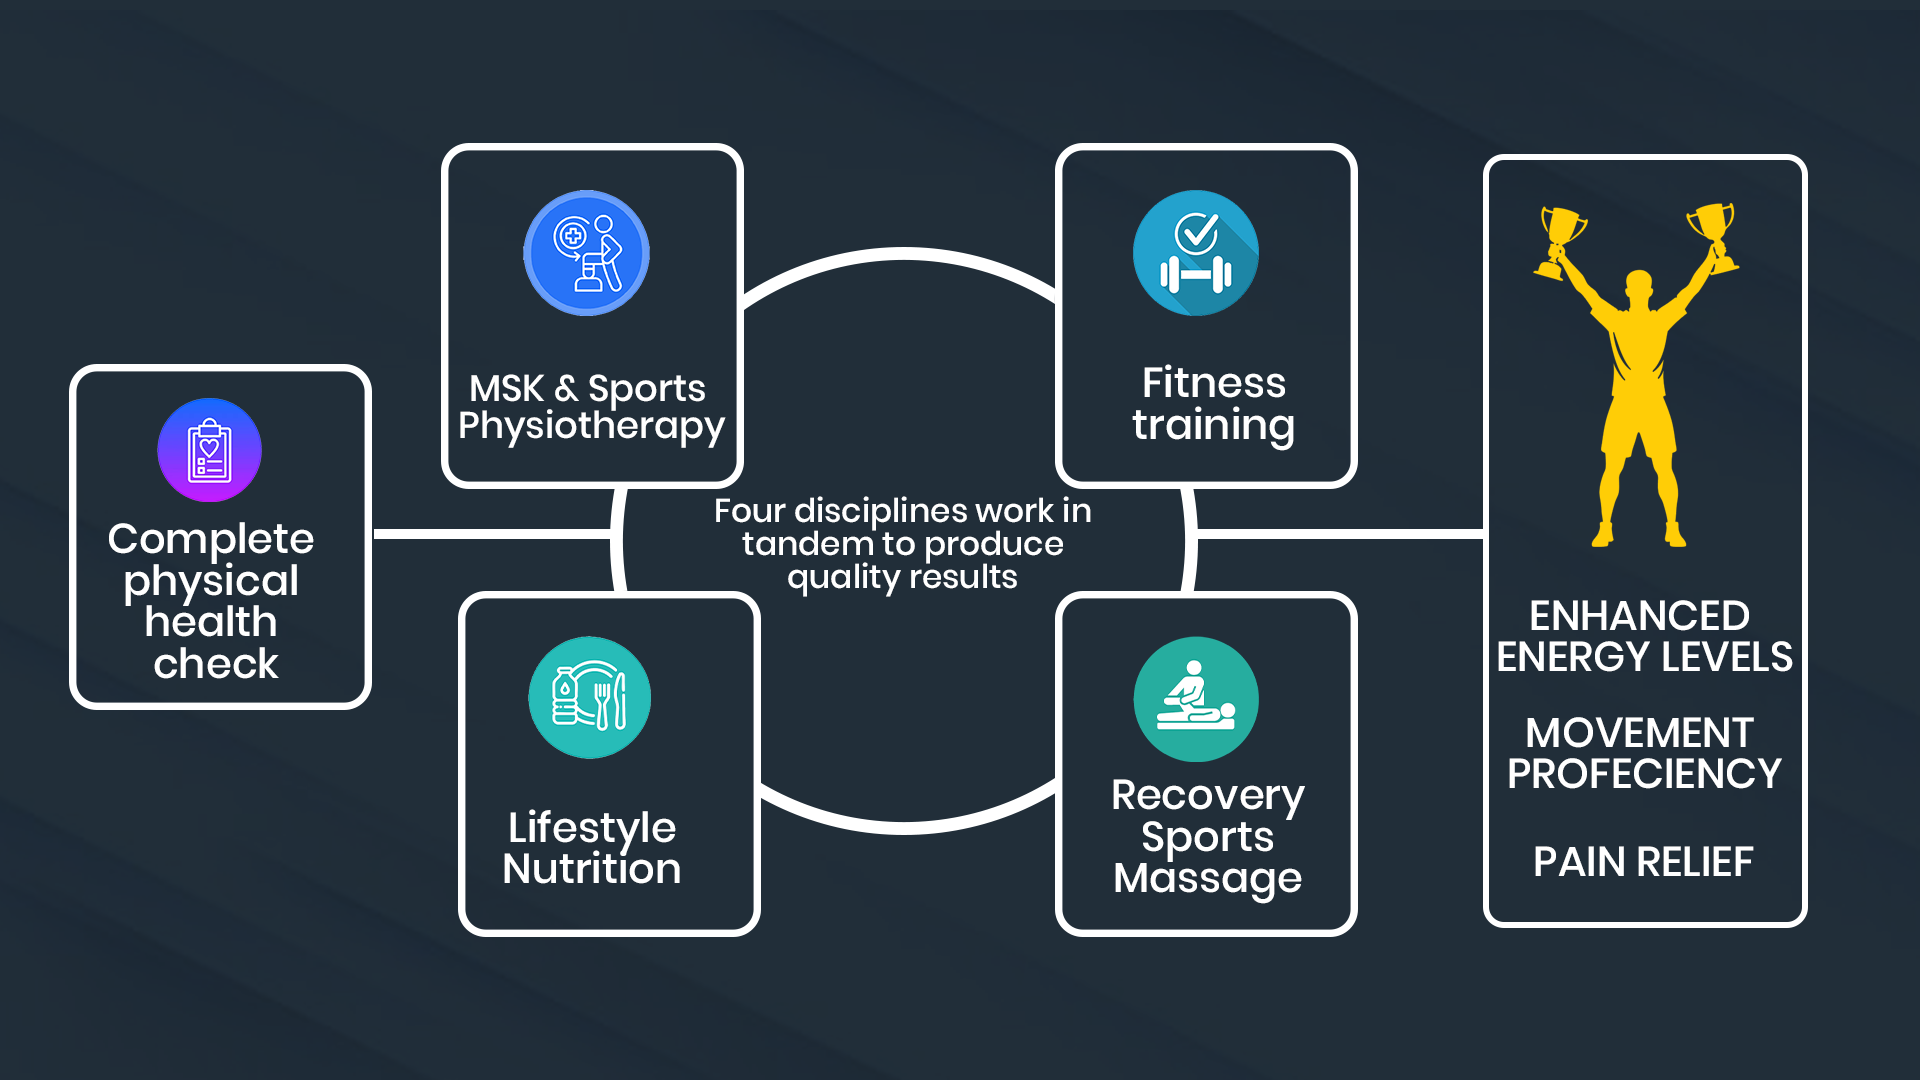
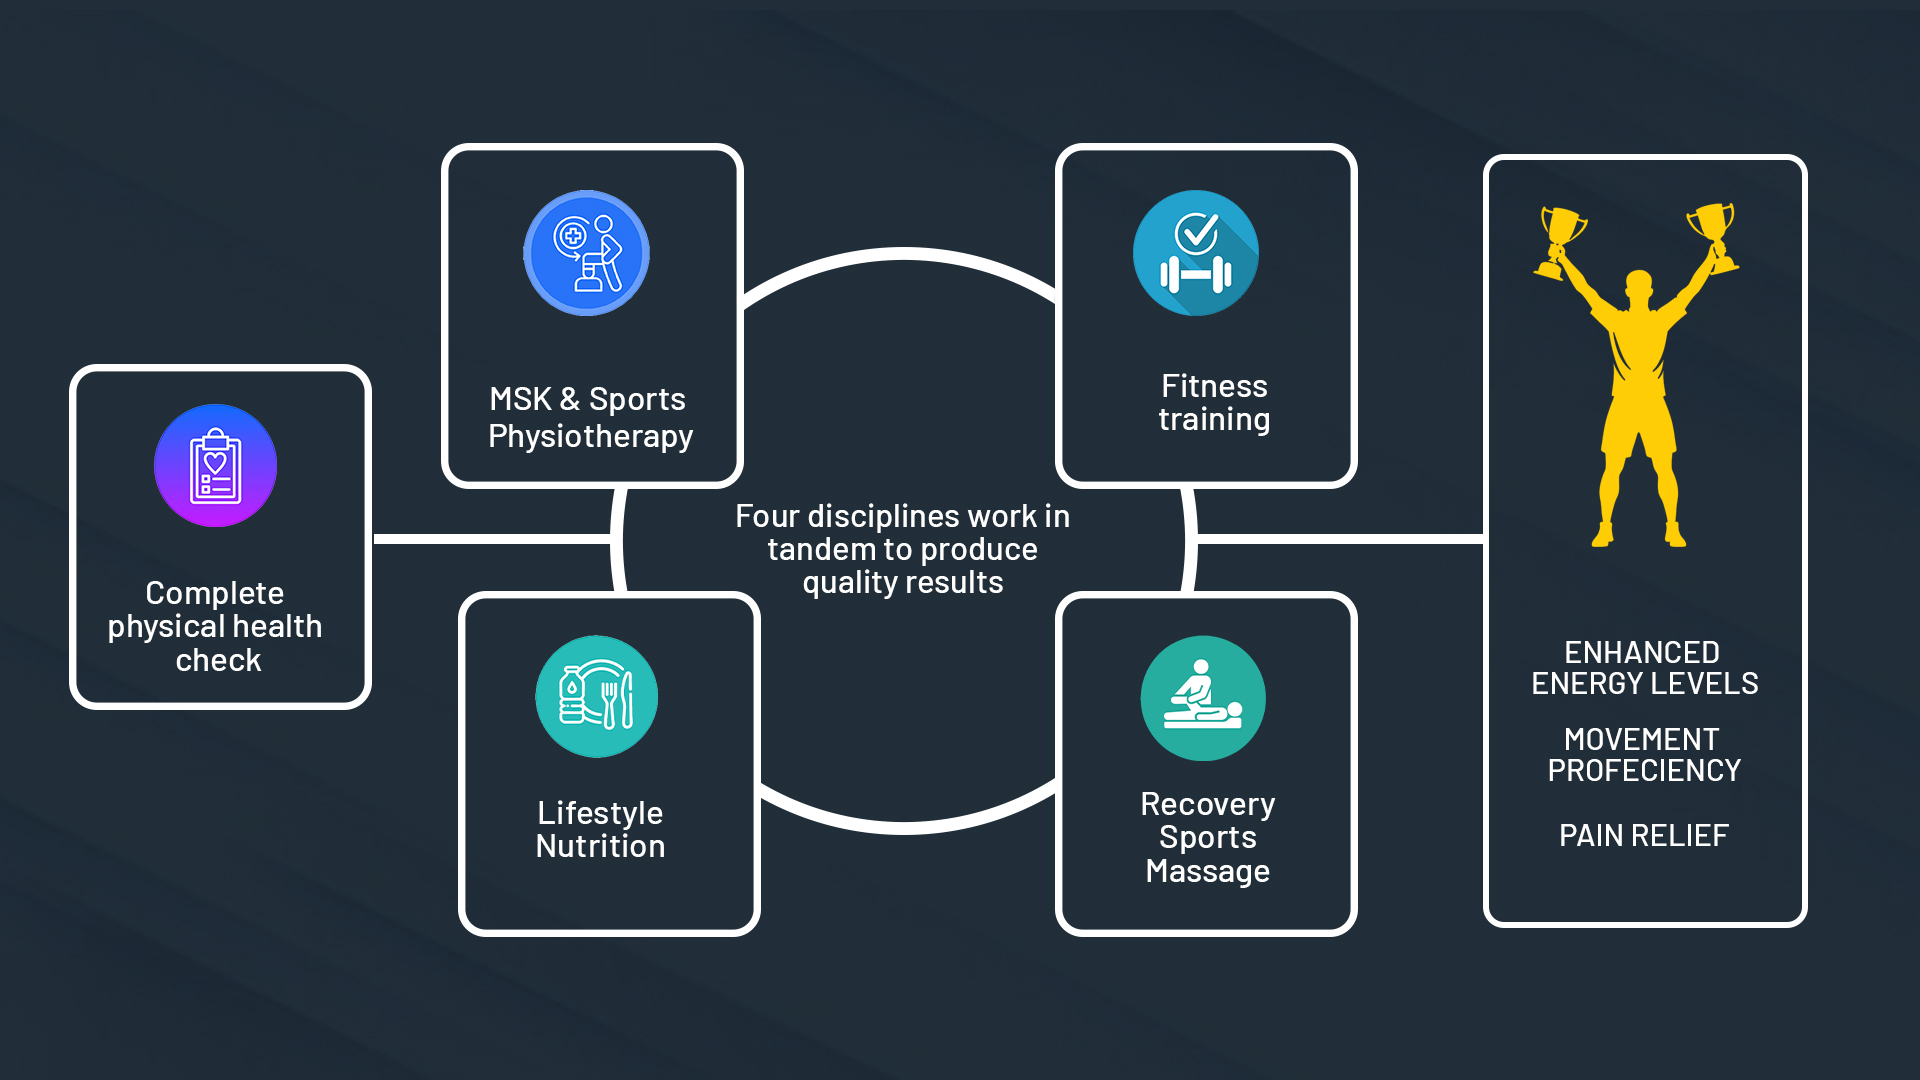
first

diff --git a/corporate-wellness.html b/corporate-wellness.html
@@ -130,6 +130,28 @@
       animation-play-state: paused;
     }
 
+    #clients .clients-track>span {
+      min-width: 150px !important;
+      padding-top: 0.6rem !important;
+      padding-bottom: 0.6rem !important;
+      border-right-width: 0 !important;
+    }
+
+    #clients .clients-track img {
+      height: 2.6rem !important;
+    }
+
+    @media (min-width: 640px) {
+      #clients .clients-track>span {
+        min-width: 205px !important;
+        padding: 0.85rem 2rem !important;
+      }
+
+      #clients .clients-track img {
+        height: 3.6rem !important;
+      }
+    }
+
     @keyframes clientsMarquee {
       from {
         transform: translateX(0);
@@ -442,8 +464,8 @@
 
           <div class="w-full max-w-[760px] min-w-0 rounded-2xl bg-[rgba(10,14,30,0.42)] px-3 py-4 text-center backdrop-blur-[1px] sm:bg-transparent sm:px-0 sm:py-0 sm:backdrop-blur-0">
             <h1 class="mb-2 text-[clamp(1.15rem,5.2vw,1.9rem)] font-extrabold uppercase leading-[1.2] tracking-[0.02em] text-white sm:text-[clamp(1.3rem,2.6vw,1.9rem)]">
-              <span class="brand-word text-primary">PREHAB</span><br>
-              Corporate Health &amp; Wellness
+              <span class="brand-word text-white">PREHAB</span><br>
+              <span class="text-primary">Corporate Health &amp; Wellness</span>
             </h1>
             <p class="mx-auto mb-5 max-w-[620px] text-[0.82rem] font-medium leading-[1.45] text-white drop-shadow-[0_1px_10px_rgba(0,0,0,0.35)] sm:text-[0.9rem]">
               <span class="brand-word font-bold tracking-wide text-white">PREHAB</span> partners with organisations that want more than a brochure programme — culture change, healthier bodies, and teams that feel ready for the work ahead.
@@ -464,12 +486,12 @@
       </div>
     </section>
 
-    <section id="clients" class="bg-[#0F172A] py-8 md:py-10">
+    <section id="clients" class="bg-white py-9 md:py-11">
       <div class="mx-auto w-full max-w-[1280px] px-4 sm:px-6 lg:px-12">
-        <p class="text-center text-[0.72rem] font-semibold uppercase tracking-[0.18em] text-white/70">Our clients</p>
-        <div class="relative mx-auto mt-3 w-full max-w-[1240px] overflow-hidden rounded-xl border border-white/20 bg-[rgba(17,14,32,0.88)] shadow-[0_14px_34px_rgba(0,0,0,0.28)]">
-          <div class="pointer-events-none absolute inset-y-0 left-0 z-10 w-8 bg-gradient-to-r from-[rgba(17,14,32,0.95)] to-transparent sm:w-14"></div>
-          <div class="pointer-events-none absolute inset-y-0 right-0 z-10 w-8 bg-gradient-to-l from-[rgba(17,14,32,0.95)] to-transparent sm:w-14"></div>
+        <h2 class="text-center text-[clamp(1.65rem,3.5vw,2.35rem)] font-extrabold text-dark">Our clients</h2>
+        <div class="relative mx-auto mt-4 w-full max-w-[1240px] overflow-hidden rounded-xl bg-white shadow-[0_10px_28px_rgba(15,23,42,0.08)]">
+          <div class="pointer-events-none absolute inset-y-0 left-0 z-10 w-8 bg-gradient-to-r from-white to-transparent sm:w-14"></div>
+          <div class="pointer-events-none absolute inset-y-0 right-0 z-10 w-8 bg-gradient-to-l from-white to-transparent sm:w-14"></div>
           <div class="clients-track flex items-stretch">
             <span class="flex min-w-[140px] items-center justify-center border-r border-white/15 px-4 py-2 sm:min-w-[190px] sm:px-7 sm:py-3"><img src="wellnessimg/logo1.png" alt="Reserve Bank of India logo" class="h-8 w-auto object-contain sm:h-12" /></span>
             <span class="flex min-w-[140px] items-center justify-center border-r border-white/15 px-4 py-2 sm:min-w-[190px] sm:px-7 sm:py-3"><img src="wellnessimg/logo2.png" alt="Barbell House Gym logo" class="h-8 w-auto object-contain sm:h-12" /></span>
@@ -608,40 +630,40 @@
         <p class="mx-auto mt-3 max-w-[680px] text-center text-[0.88rem] text-slate-600">
           Real outcomes in a table-style view designed for corporate decision-makers.
         </p>
-        <div class="mx-auto mt-8 grid max-w-[1100px] grid-cols-1 overflow-hidden rounded-2xl border border-white/20 bg-[#130E22] sm:grid-cols-2 lg:grid-cols-4">
-          <article class="advantage-card min-h-[140px] border-b border-white/15 bg-cover bg-center p-5 sm:min-h-[160px] sm:border-r lg:border-b lg:p-6"
+        <div class="mx-auto mt-8 grid max-w-[1240px] grid-cols-1 overflow-hidden rounded-2xl border border-white/20 bg-[#130E22] sm:grid-cols-2 lg:grid-cols-4">
+          <article class="advantage-card min-h-[170px] border-b border-white/15 bg-cover bg-center p-6 sm:min-h-[190px] sm:border-r lg:border-b lg:p-7"
             style="background-image: linear-gradient(rgba(8,10,25,0.78), rgba(8,10,25,0.78)), url('wellnessimg/hero.png');">
             <p class="text-[2rem] font-extrabold leading-none text-white sm:text-[2.3rem]">40%</p>
             <h3 class="mt-3 text-[1rem] font-bold text-white">Increased productivity</h3>
             <p class="mt-1 text-[0.86rem] leading-relaxed text-white/75">Sharper focus and steadier energy throughout the workday.</p>
           </article>
-          <article class="advantage-card min-h-[140px] border-b border-white/15 p-5 sm:min-h-[160px] lg:border-r lg:border-b lg:p-6">
+          <article class="advantage-card min-h-[170px] border-b border-white/15 p-6 sm:min-h-[190px] lg:border-r lg:border-b lg:p-7">
             <p class="text-[1.8rem] font-extrabold leading-none text-primary sm:text-[2rem]">Significant</p>
             <h3 class="mt-3 text-[1rem] font-bold text-white">Reduced absenteeism</h3>
             <p class="mt-1 text-[0.86rem] leading-relaxed text-white/75">Fewer injury and illness episodes improve attendance stability.</p>
           </article>
-          <article class="advantage-card min-h-[140px] border-b border-white/15 p-5 sm:min-h-[160px] sm:border-r lg:border-b lg:p-6">
+          <article class="advantage-card min-h-[170px] border-b border-white/15 p-6 sm:min-h-[190px] sm:border-r lg:border-b lg:p-7">
             <p class="text-[0.74rem] font-semibold uppercase tracking-[0.16em] text-primary/90">Trusted care</p>
             <h3 class="mt-3 text-[1rem] font-bold text-white">Proven excellence</h3>
             <p class="mt-1 text-[0.86rem] leading-relaxed text-white/75"><span class="brand-word font-bold text-white">PREHAB</span> Clinics brings 40+ years of combined clinical experience.</p>
           </article>
-          <article class="advantage-card min-h-[140px] border-b border-white/15 p-5 sm:min-h-[160px] lg:border-b lg:p-6">
+          <article class="advantage-card min-h-[170px] border-b border-white/15 p-6 sm:min-h-[190px] lg:border-b lg:p-7">
             <p class="text-[0.74rem] font-semibold uppercase tracking-[0.16em] text-primary/90">Performance view</p>
             <h3 class="mt-3 text-[1rem] font-bold text-white">Measurable ROI</h3>
             <p class="mt-1 text-[0.86rem] leading-relaxed text-white/75">Lower healthcare cost burden with stronger workforce output.</p>
           </article>
-          <article class="advantage-card min-h-[140px] border-b border-white/15 p-5 sm:min-h-[160px] sm:border-r sm:border-b-0 lg:border-r lg:p-6">
+          <article class="advantage-card min-h-[170px] border-b border-white/15 p-6 sm:min-h-[190px] sm:border-r sm:border-b-0 lg:border-r lg:p-7">
             <p class="text-[0.74rem] font-semibold uppercase tracking-[0.16em] text-primary/90">People impact</p>
             <h3 class="mt-3 text-[1rem] font-bold text-white">Enhanced morale &amp; loyalty</h3>
             <p class="mt-1 text-[0.86rem] leading-relaxed text-white/75">Better employee care strengthens engagement and retention.</p>
           </article>
-          <article class="advantage-card min-h-[140px] border-b border-white/15 bg-cover bg-center p-5 sm:col-span-2 sm:min-h-[160px] sm:border-b-0 lg:col-span-2 lg:border-r lg:p-6"
+          <article class="advantage-card min-h-[170px] border-b border-white/15 bg-cover bg-center p-6 sm:col-span-2 sm:min-h-[190px] sm:border-b-0 lg:col-span-2 lg:border-r lg:p-7"
             style="background-image: linear-gradient(rgba(20,18,40,0.72), rgba(20,18,40,0.72)), url('wellnessimg/aboutimg.png');">
             <p class="text-[0.74rem] font-semibold uppercase tracking-[0.16em] text-white/80">Premium outcome</p>
             <h3 class="mt-3 text-[1.25rem] font-extrabold text-white sm:text-[1.4rem]">100% Customized Programs</h3>
             <p class="mt-2 max-w-[460px] text-[0.9rem] leading-relaxed text-white/90">Tailored to your organization needs and aligned with your company culture.</p>
           </article>
-          <article class="advantage-card min-h-[140px] bg-cover bg-center p-5 sm:min-h-[160px] sm:border-r lg:p-6"
+          <article class="advantage-card min-h-[170px] bg-cover bg-center p-6 sm:min-h-[190px] sm:border-r lg:p-7"
             style="background-image: linear-gradient(rgba(7,12,28,0.76), rgba(7,12,28,0.76)), url('wellnessimg/herosection.jpg');">
             <p class="text-[0.74rem] font-semibold uppercase tracking-[0.16em] text-primary/90">Workforce health</p>
             <h3 class="mt-3 text-[1rem] font-bold text-white">Resilient workforce</h3>
